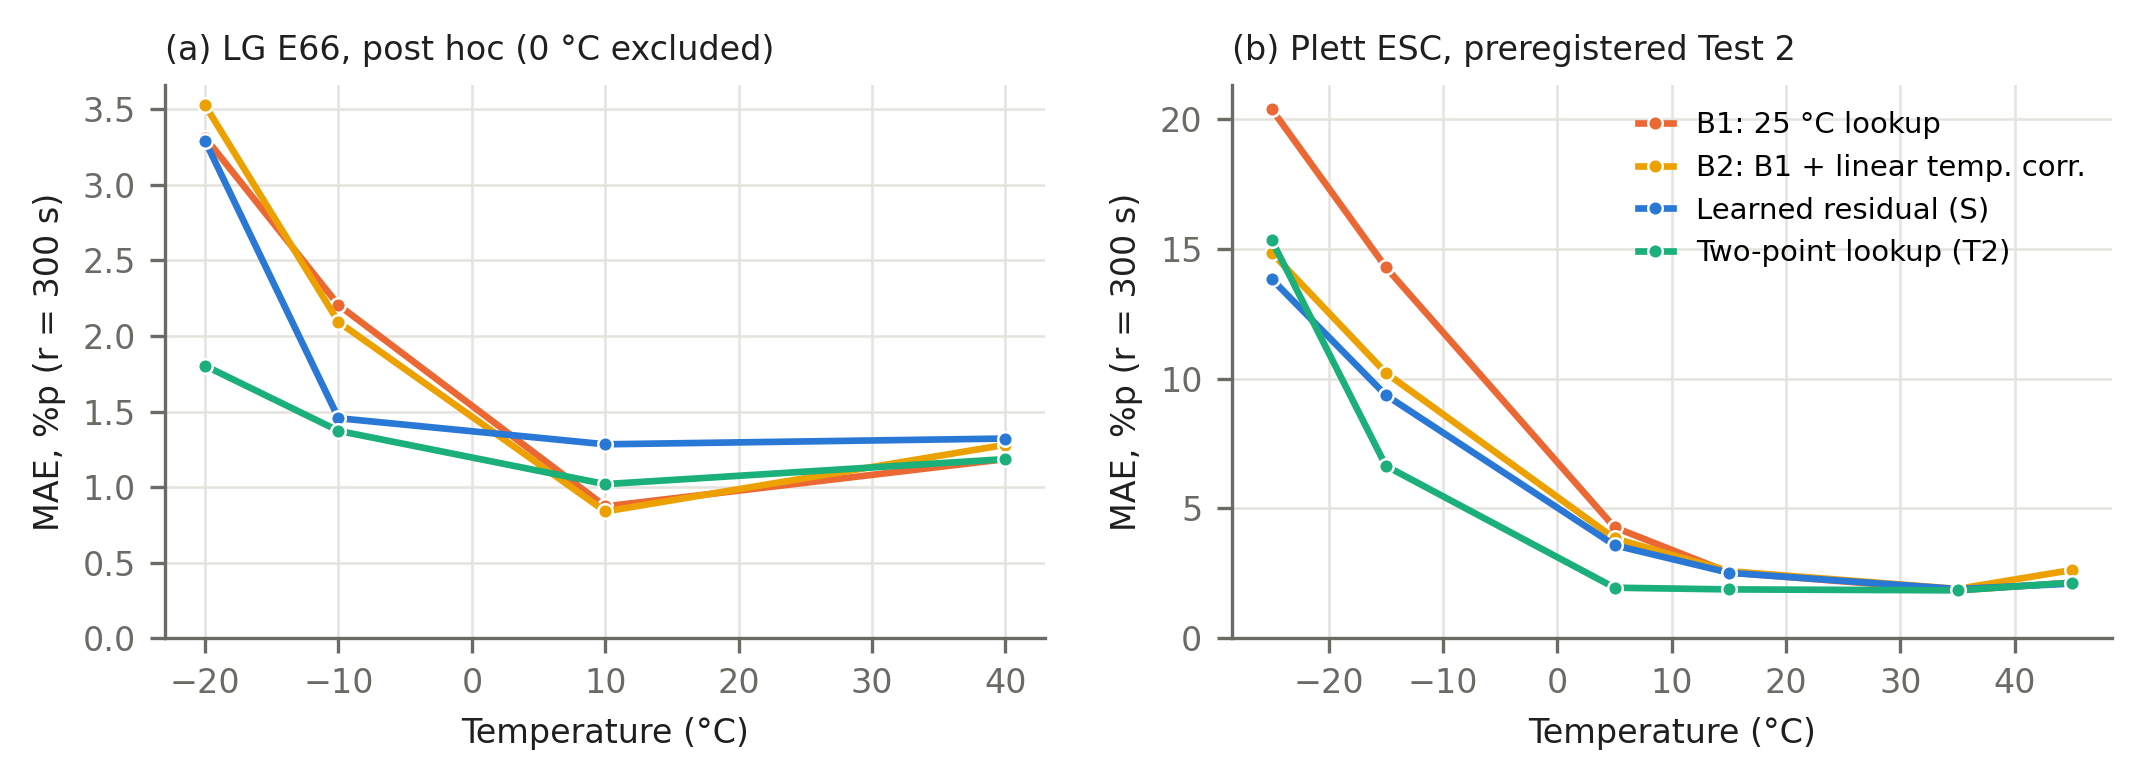
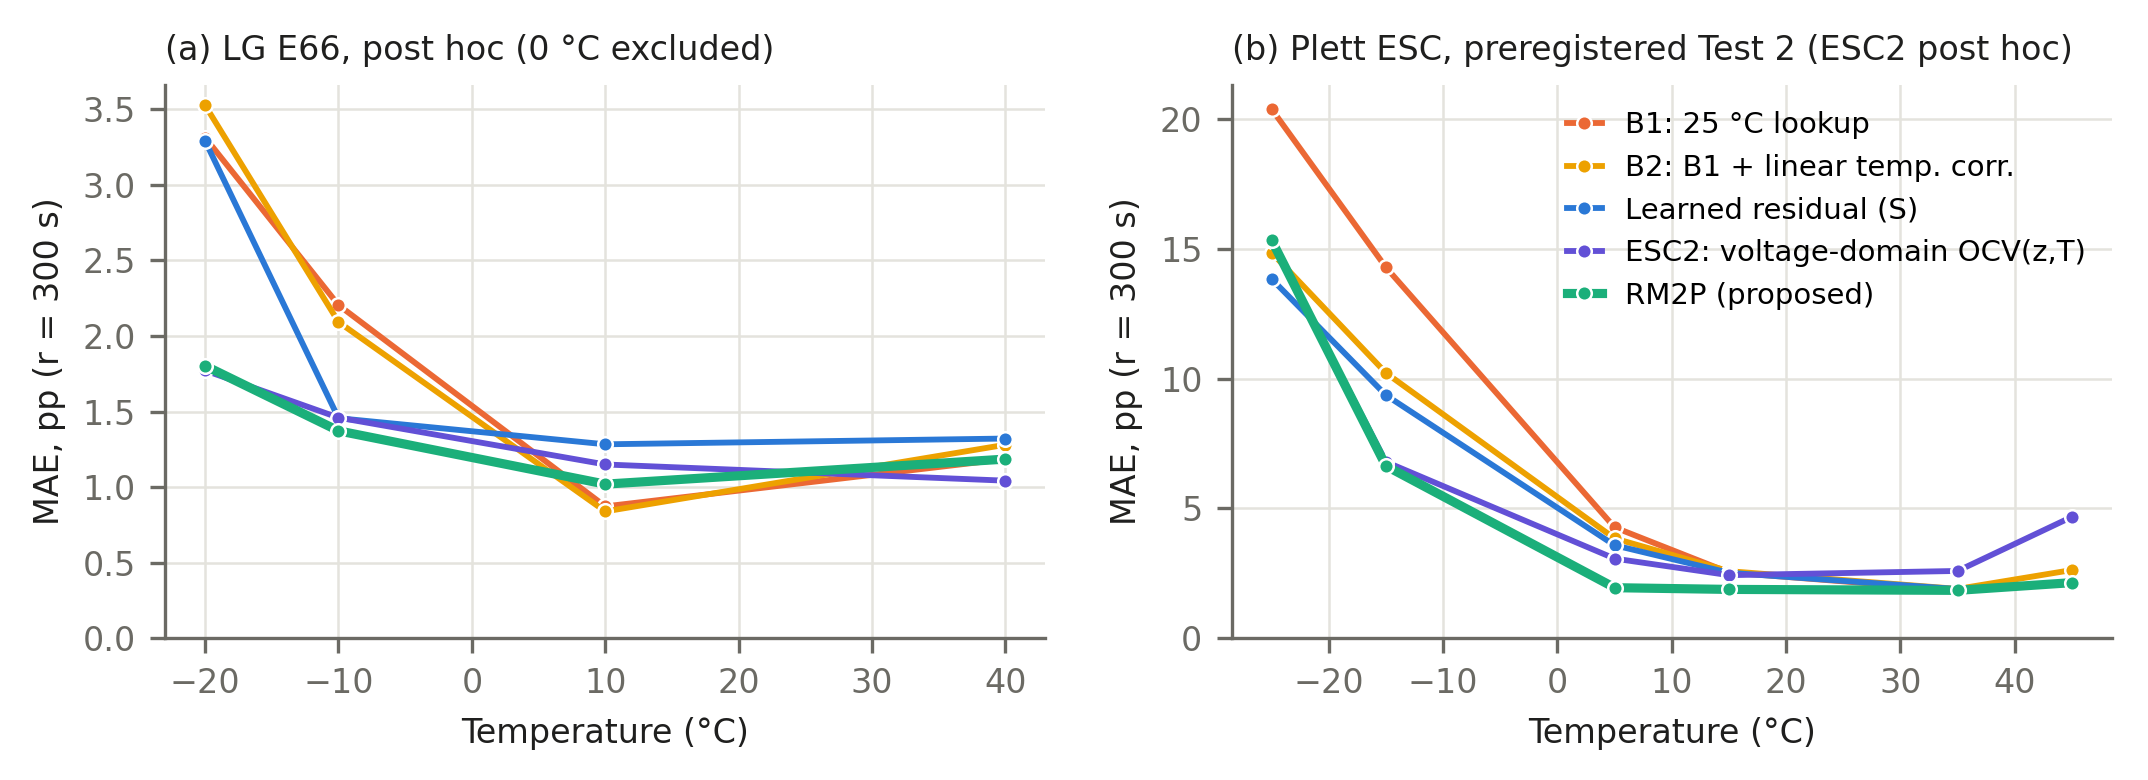
paper: Fig. 3 adds ESC2 (post hoc)

diff --git a/analysis/paper_figs.py b/analysis/paper_figs.py
@@ -84,7 +84,7 @@ def fig_bias():
         ax.set_title(title, fontsize=8, color=INK, loc="left")
         ax.set_xlabel("Temperature (°C)")
         ax.legend(loc="lower right", handlelength=1.2)
-    axs[0].set_ylabel("Bias of 25 °C lookup (B1), %p")
+    axs[0].set_ylabel("Bias of 25 °C lookup (B1), pp")
     fig.tight_layout()
     fig.savefig(os.path.join(OUT, "fig_bias_vs_temp.png"), dpi=300)
     plt.close(fig)
@@ -123,18 +123,25 @@ def plett_methods():
 
 
 def fig_methods():
+    import esc_compare  # noqa: F401  (multi_reg.evaluate를 ESC2 포함 버전으로 바꾼다)
+    import multi_reg as mr
     fig, axs = plt.subplots(1, 2, figsize=(7.16, 2.6), sharey=False)
     lab = {"B1": "B1: 25 °C lookup", "B2": "B2: B1 + linear temp. corr.", "S_simple": "Learned residual (S)",
-           "T2_cold": "Two-point lookup (T2)"}
-    col = {"B1": CAT[1], "B2": CAT[3], "S_simple": CAT[0], "T2_cold": CAT[2]}
-    for ax, (title, (E, T)) in zip(axs, [("(a) LG E66, post hoc (0 °C excluded)", e66_methods()),
-                                          ("(b) Plett ESC, preregistered Test 2", plett_methods())]):
+           "ESC2": "ESC2: voltage-domain OCV(z,T)", "T2_cold": "RM2P (proposed)"}
+    col = {"B1": CAT[1], "B2": CAT[3], "S_simple": CAT[0], "ESC2": CAT[6], "T2_cold": CAT[2]}
+    for ax, (title, (E, T), run) in zip(axs, [("(a) LG E66, post hoc (0 °C excluded)", e66_methods(), mr.run_e66),
+                                               ("(b) Plett ESC, preregistered Test 2 (ESC2 post hoc)", plett_methods(), mr.run_plett)]):
+        Ee, Te = run(R)
         ts = np.unique(T)
-        for k in ["B1", "B2", "S_simple", "T2_cold"]:
-            ax.plot(ts, [E[k][T == t].mean() for t in ts], "-o", color=col[k], ms=3.5, label=lab[k], mec="white", mew=0.6)
+        for k in ["B1", "B2", "S_simple", "ESC2", "T2_cold"]:
+            if k == "ESC2":
+                y = [np.abs(Ee["ESC2"][Te == t]).mean() for t in ts]
+            else:
+                y = [E[k][T == t].mean() for t in ts]
+            ax.plot(ts, y, "-o", color=col[k], ms=3.5, label=lab[k], mec="white", mew=0.6, lw=2.2 if k == "T2_cold" else 1.4)
         ax.set_title(title, fontsize=8, color=INK, loc="left")
         ax.set_xlabel("Temperature (°C)")
-        ax.set_ylabel("MAE, %p (r = 300 s)")
+        ax.set_ylabel("MAE, pp (r = 300 s)")
         ax.set_ylim(bottom=0)
     axs[1].legend(loc="upper right", handlelength=1.2)
     fig.tight_layout()
